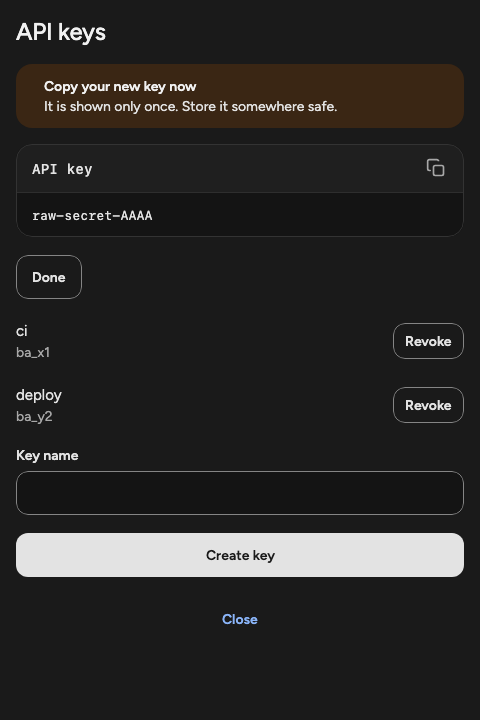
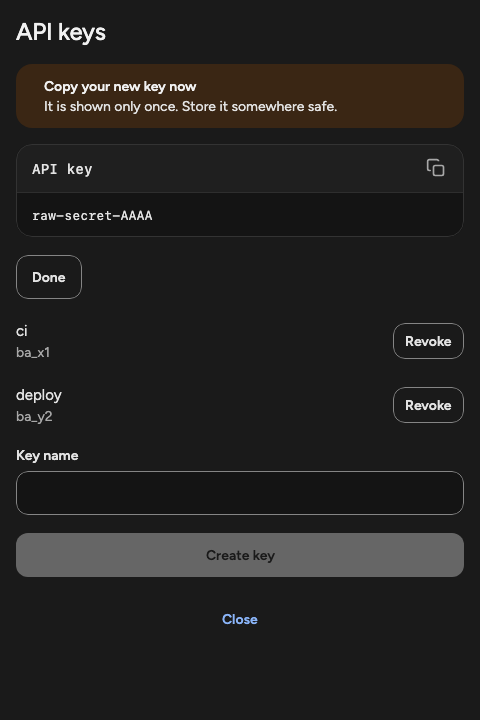
fix(#8): review cycle 1 — pin defaults and guards, README consumer notes

Changed region(s): [[0.0312, 0.7333, 0.9688, 0.825]]

diff --git a/better-auth-fds/src/jvmTest/kotlin/dev/fediim/auth/fds/AccountComponentsUiTest.kt b/better-auth-fds/src/jvmTest/kotlin/dev/fediim/auth/fds/AccountComponentsUiTest.kt
@@ -89,6 +89,21 @@ class AccountComponentsUiTest {
   }
 
   @Test
+  fun failedSwitchKeepsThePreviousOrganization() = runDesktopTest {
+    val rig = orgRig("uA" to "admin")
+    rig.on("organization/set-active", Reply("""{"code":"FORBIDDEN"}""", 403))
+    val vm = switcher(rig, "uA")
+    until("loaded") { hasText("Acme") }
+    onNodeWithTag(TAG_ORG_TRIGGER).performClick()
+    until("menu") { hasText("Beta") }
+    onNodeWithText("Beta").performClick()
+    until("failed") { vm.state.value.error?.code == "FORBIDDEN" && !vm.state.value.isLoading }
+    assertEquals(1, rig.to("organization/set-active").size)
+    until("closed") { !hasText("Beta") }
+    assertTrue(text(TAG_ORG_TRIGGER).contains("Acme"))
+  }
+
+  @Test
   fun switcherWithoutOrganizationsSaysSo() = runDesktopTest {
     val rig = FdsTestRig()
     rig.on("organization/list", Reply("[]"))
@@ -155,6 +170,22 @@ class AccountComponentsUiTest {
     onNodeWithText("Create key").performClick()
     until("request") { rig.to("api-key/create").size == 1 }
     assertEquals("{}", rig.to("api-key/create").single().body)
+  }
+
+  @Test
+  fun createIsDisabledWhileTheSecretShowsUntilDone() = runDesktopTest {
+    val rig = FdsTestRig()
+    rig.on("api-key/list", listK1)
+    rig.on("api-key/create", created("raw-secret-DDDD", "k4", "x"))
+    keyDialog(rig)
+    until("row") { hasText("ci") }
+    onNodeWithText("Create key").assertIsEnabled()
+    onNodeWithText("Create key").performClick()
+    until("secret") { hasTag(TAG_KEY_SECRET) }
+    onNodeWithText("Create key").assertIsNotEnabled()
+    onNodeWithText("Done").performClick()
+    until("hidden") { !hasTag(TAG_KEY_SECRET) }
+    onNodeWithText("Create key").assertIsEnabled()
   }
 
   @Test
@@ -307,6 +338,28 @@ class AccountComponentsUiTest {
     onNodeWithText("Continue").performClick()
     until("request") { rig.to("two-factor/enable").size == 1 }
     assertEquals("""{"issuer":"Acme"}""", rig.to("two-factor/enable").single().body)
+  }
+
+  @Test
+  fun verifyIsSentOnceWhileRunning() = runDesktopTest {
+    val rig = FdsTestRig()
+    rig.on("two-factor/enable", enrollment)
+    rig.on("two-factor/verify-totp", Reply(TOKEN_REPLY))
+    val gate = rig.gate("two-factor/verify-totp")
+    var enabled = 0
+    setup(rig) { enabled++ }
+    onNodeWithText("Continue").performClick()
+    until("enrollment") { hasTag(TAG_SETUP_CODE) }
+    type(TAG_SETUP_CODE, "112233")
+    onNodeWithText("Verify").performClick()
+    until("request") { rig.to("two-factor/verify-totp").size == 1 }
+    onNodeWithText("Verify").assertIsNotEnabled()
+    onNodeWithText("Verify").performClick()
+    waitForIdle()
+    assertEquals(1, rig.to("two-factor/verify-totp").size)
+    gate.complete(Unit)
+    until("enabled") { enabled == 1 }
+    assertEquals(1, rig.to("two-factor/verify-totp").size)
   }
 
   @Test

diff --git a/better-auth-fds/src/commonMain/kotlin/dev/fediim/auth/fds/ApiKeyManagerDialog.kt b/better-auth-fds/src/commonMain/kotlin/dev/fediim/auth/fds/ApiKeyManagerDialog.kt
@@ -38,11 +38,14 @@ internal const val TAG_REVOKE_PREFIX = "fds.key.revoke."
 /**
  * Dispatches `Load` each time it enters composition and lists the keys (name or id, and `start`).
  * "Create key" dispatches `Create` with the trimmed name, or none when blank, and is disabled while
- * a request runs. The new secret shows once in a Warning banner with a copyable code block until
- * "Done" (`DismissCreatedKey`) or until the dialog leaves composition (also `DismissCreatedKey`).
- * "Revoke" asks a destructive confirmation, then dispatches `Revoke(id)`; it is disabled while a
- * request runs. Failures show a Critical banner with `message ?: code`. "Close" and Esc call
- * [onDismissRequest]. Must be inside `FediimTheme`.
+ * a request runs or a new secret is shown (press Done first). The new secret shows once in a
+ * Warning banner with a copyable code block until "Done" (`DismissCreatedKey`) or until the dialog
+ * leaves composition (also `DismissCreatedKey`). "Revoke" asks a destructive confirmation, then
+ * dispatches `Revoke(id)`; it is disabled while a request runs. Failures show a Critical banner
+ * with `message ?: code`. "Close" and Esc call [onDismissRequest]. The secret is dropped when the
+ * composition is disposed, including on an Android configuration change, by design (never in saved
+ * state); the host app should set `FLAG_SECURE` or the platform equivalent if it needs screenshot
+ * protection. Must be inside `FediimTheme`.
  */
 @Composable
 public fun ApiKeyManagerDialog(
@@ -130,7 +133,7 @@ internal fun ApiKeyManagerContent(
         },
         variant = ButtonVariant.Primary,
         modifier = Modifier.fillMaxWidth(),
-        enabled = !state.isLoading,
+        enabled = !state.isLoading && state.createdKey == null,
         text = "Create key",
     )
     Button(

diff --git a/better-auth-fds/src/commonMain/kotlin/dev/fediim/auth/fds/TwoFactorSetupDialog.kt b/better-auth-fds/src/commonMain/kotlin/dev/fediim/auth/fds/TwoFactorSetupDialog.kt
@@ -43,7 +43,10 @@ private fun BetterAuthResult<*>.failureText(): String? =
  * called once on success. A failure keeps the step and shows the error. Continue and Verify are
  * disabled while their request runs, and Verify stays disabled after success. A blank password is
  * sent as null (accounts without a password). There is no QR code. Call it while signed in with no
- * pending two-factor sign-in. Must be inside `FediimTheme`.
+ * pending two-factor sign-in. The password, URI and backup codes are dropped when the composition
+ * is disposed, including on an Android configuration change, by design (never in saved state); the
+ * host app should set `FLAG_SECURE` or the platform equivalent if it needs screenshot protection.
+ * Must be inside `FediimTheme`.
  */
 @Composable
 public fun TwoFactorSetupDialog(
@@ -86,6 +89,7 @@ public fun TwoFactorSetupDialog(
         )
         Button(
             onClick = {
+              if (busy) return@Button
               busy = true
               failure = null
               scope.launch {
@@ -117,6 +121,7 @@ public fun TwoFactorSetupDialog(
         )
         Button(
             onClick = {
+              if (busy) return@Button
               busy = true
               failure = null
               scope.launch {

diff --git a/better-auth-fds/src/commonMain/kotlin/dev/fediim/auth/fds/BetterAuthDialog.kt b/better-auth-fds/src/commonMain/kotlin/dev/fediim/auth/fds/BetterAuthDialog.kt
@@ -149,7 +149,8 @@ public fun BetterAuthDialog(
  * `SignInSocial` with [socialCallbackUrl]; [passkeyCapability] decides the passkey button as in
  * [PasskeySignInButton]. Every action is disabled while `isLoading` or `isLockedOut`. A lockout
  * shows a Warning banner with the seconds left; `error` shows a Critical banner with `message ?:
- * code`. It never collects `viewModel.effects`.
+ * code`. It never collects `viewModel.effects`. [socialCallbackUrl] must be an origin the server
+ * trusts; never pass a user-controlled value.
  */
 @Composable
 public fun BetterAuthPanel(

diff --git a/better-auth-fds/src/jvmTest/kotlin/dev/fediim/auth/fds/BetterAuthDialogUiTest.kt b/better-auth-fds/src/jvmTest/kotlin/dev/fediim/auth/fds/BetterAuthDialogUiTest.kt
@@ -252,6 +252,13 @@ class BetterAuthDialogUiTest {
   }
 
   @Test
+  fun defaultProvidersAreGoogleAndGitHub() = runDesktopTest {
+    val rig = FdsTestRig()
+    setVmContent({ rig.viewModel(it) }) { BetterAuthPanel(it) }
+    assertTrue(hasText("Continue with Google") && hasText("Continue with GitHub"))
+  }
+
+  @Test
   fun googleButtonSendsGoogle() = runDesktopTest {
     val rig = FdsTestRig()
     rig.on("sign-in/social", Reply(social))

diff --git a/README.md b/README.md
@@ -154,7 +154,12 @@ FediimTheme {
   val client = remember { BetterAuthClient(config, storage, socialAuthLauncher = launcher) }
   val auth = remember { BetterAuthViewModel(client, scope, passkeyClient) }
   val organizations = remember { OrganizationViewModel(client, scope) }
-  DisposableEffect(auth) { onDispose { auth.close() } }
+  DisposableEffect(auth, organizations) {
+    onDispose {
+      auth.close()
+      organizations.close()
+    }
+  }
 
   val state by auth.state.collectAsState()
   if (!state.isSignedIn) {
@@ -162,7 +167,7 @@ FediimTheme {
       auth,
       onDismissRequest = { /* hide the dialog */ },
       passkeyCapability = authenticator.capability,
-      socialProviders = emptyList(), // the default ["google", "github"] needs a `socialAuthLauncher`
+      // default providers need the `socialAuthLauncher` above; pass `socialProviders = emptyList()` if the client has none
     )
   } else {
     OrganizationSwitcher(organizations, currentUserId = state.user?.id)
@@ -175,7 +180,9 @@ FediimTheme {
 - Social buttons call `SignInSocial`, which fails with `UNEXPECTED` when the client has no `socialAuthLauncher`: pass `socialProviders = emptyList()` then.
 - The password stays in composition memory (never saved state); `ApiKeyManagerDialog` drops the one-time secret when it leaves composition.
 - Labels are English only. FDS 0.1.4 has no icon set, so buttons and banners are text-only.
-- Consumers also need the FDS repository `https://maven.pkg.github.com/fediim-dev/fediim-design-system` (same `gpr.user`/`gpr.key` credentials) and the Compose compiler plugin; the module itself resolves FDS 0.1.4-SNAPSHOT from `mavenLocal()` in this repo (`settings.gradle.kts`).
+- Consumers also need the FDS repository `https://maven.pkg.github.com/fediim-dev/fediim-design-system` (same `gpr.user`/`gpr.key` credentials) and the Compose compiler plugin; until FDS 0.1.4-SNAPSHOT is republished to GitHub Packages (it returns 404 today, plan #8 L29), consumers can only resolve it from `mavenLocal()`.
+- This module's own build resolves FDS from `mavenLocal()` first (`settings.gradle.kts`); remove that before any release.
+- Secrets (password, TOTP URI and backup codes, a new API key) live only in composition memory and are dropped when the composition is disposed, including on an Android configuration change, by design (they are never in saved state). Set `FLAG_SECURE` or the platform equivalent in the host app if you need screenshot protection.
 - Screenshot tests (`FdsScreenshotTest`, Roborazzi) verify 12 goldens in `better-auth-fds/screenshots/` on macOS only; re-record with `./gradlew :better-auth-fds:jvmTest -Proborazzi.test.record=true`.
 
 ## Consuming from GitHub Packages

diff --git a/.fediim/plans/8.md b/.fediim/plans/8.md
@@ -80,3 +80,4 @@ L31 FDS 0.1.4 vs the 0.1.3 line numbers in S1: every cited signature matches (Bu
 L32 Labels fixed during coding: submit "Sign in with email" / "Create account" (a plain "Sign in" would clash with the Sign in segment), key-revoke confirm title "Revoke this key?" (confirm button "Revoke key"); the org role badge is untagged (tests read its text); a checklist/meter/passkey/social set that does not fit 480x720 is left out of the register golden only — reversible
 L33 `TwoFactorSetupDialog` keeps Verify disabled after a successful verify (`done`), so `onEnabled` is called once even on a second tap; pinned by `enrollmentThenWrongAndRightCode` — reversible
 L34 The two-factor step and the standalone `PasskeySignInButton` disable every action while loading or locked out, like the panel (pinned by `twoFactorActionsAreDisabledWhileLoadingOrLockedOut` and `passkeyButtonIsDisabledWhileLoadingOrLockedOut`); the test files `BetterAuthDialogUiTest.kt` and `AccountComponentsUiTest.kt` exceed 300 lines because T1–T9 and T13 are pinned to those two paths — reversible
+L35 PR #19 review cycle 1 fixes: (1) lesson `last-validated` date typo fixed; (2) README states FDS 0.1.4-SNAPSHOT resolves only from `mavenLocal()` until republished (404, L29) and that this build's `mavenLocal()` must go before a release; (3) default social providers pinned by `defaultProvidersAreGoogleAndGitHub` (fails if the `listOf("google", "github")` default changes); (4a) `verifyIsSentOnceWhileRunning` pins Verify disabled while running and one request, (4b) `failedSwitchKeepsThePreviousOrganization` pins the switcher KDoc claim; (5) README quick start keeps the default providers with an `emptyList()` comment and closes `organizations` too; (6) `ApiKeyManagerDialog` disables Create key while `createdKey != null` (`createIsDisabledWhileTheSecretShowsUntilDone`), `TwoFactorSetupDialog` onClicks start with `if (busy) return@Button` (same-frame guard, not observable through the disabled button; no separate test), KDoc and README note on dropped secrets, `FLAG_SECURE` and `socialCallbackUrl` trust; the two `apikeys-*` goldens were re-recorded because Create key now renders disabled while the secret shows — reversible

diff --git a/.fediim/memory/lessons/pin-new-doc-claims-in-fix-commits.md b/.fediim/memory/lessons/pin-new-doc-claims-in-fix-commits.md
@@ -2,7 +2,7 @@
 description: adding or rewording a KDoc/README behaviour claim during a review fix cycle (e.g. "a stalled connection does not delay the callback")
 phase: [pr]
 validated: 3
-last-validated: 3026-11-05
+last-validated: 2026-11-05
 evidence: "#4; #6 (PR #16: two epoch fences each survived removal alone because each masked the other; a mutation check per branch found it); #7 (PR #17: two review cycles spent on KDoc sentences added in fix commits — callback cancellation, close() revoke, storage failure — without pinning tests)"
 ---
 DO land a test that pins any new behaviour claim in the same fix commit, and show it fails with the guarded line removed — PR #14 spent an extra review cycle on an unpinned executor claim; PR #16 found two overlapping fences that each survived removal alone, so remove each guard branch on its own.
